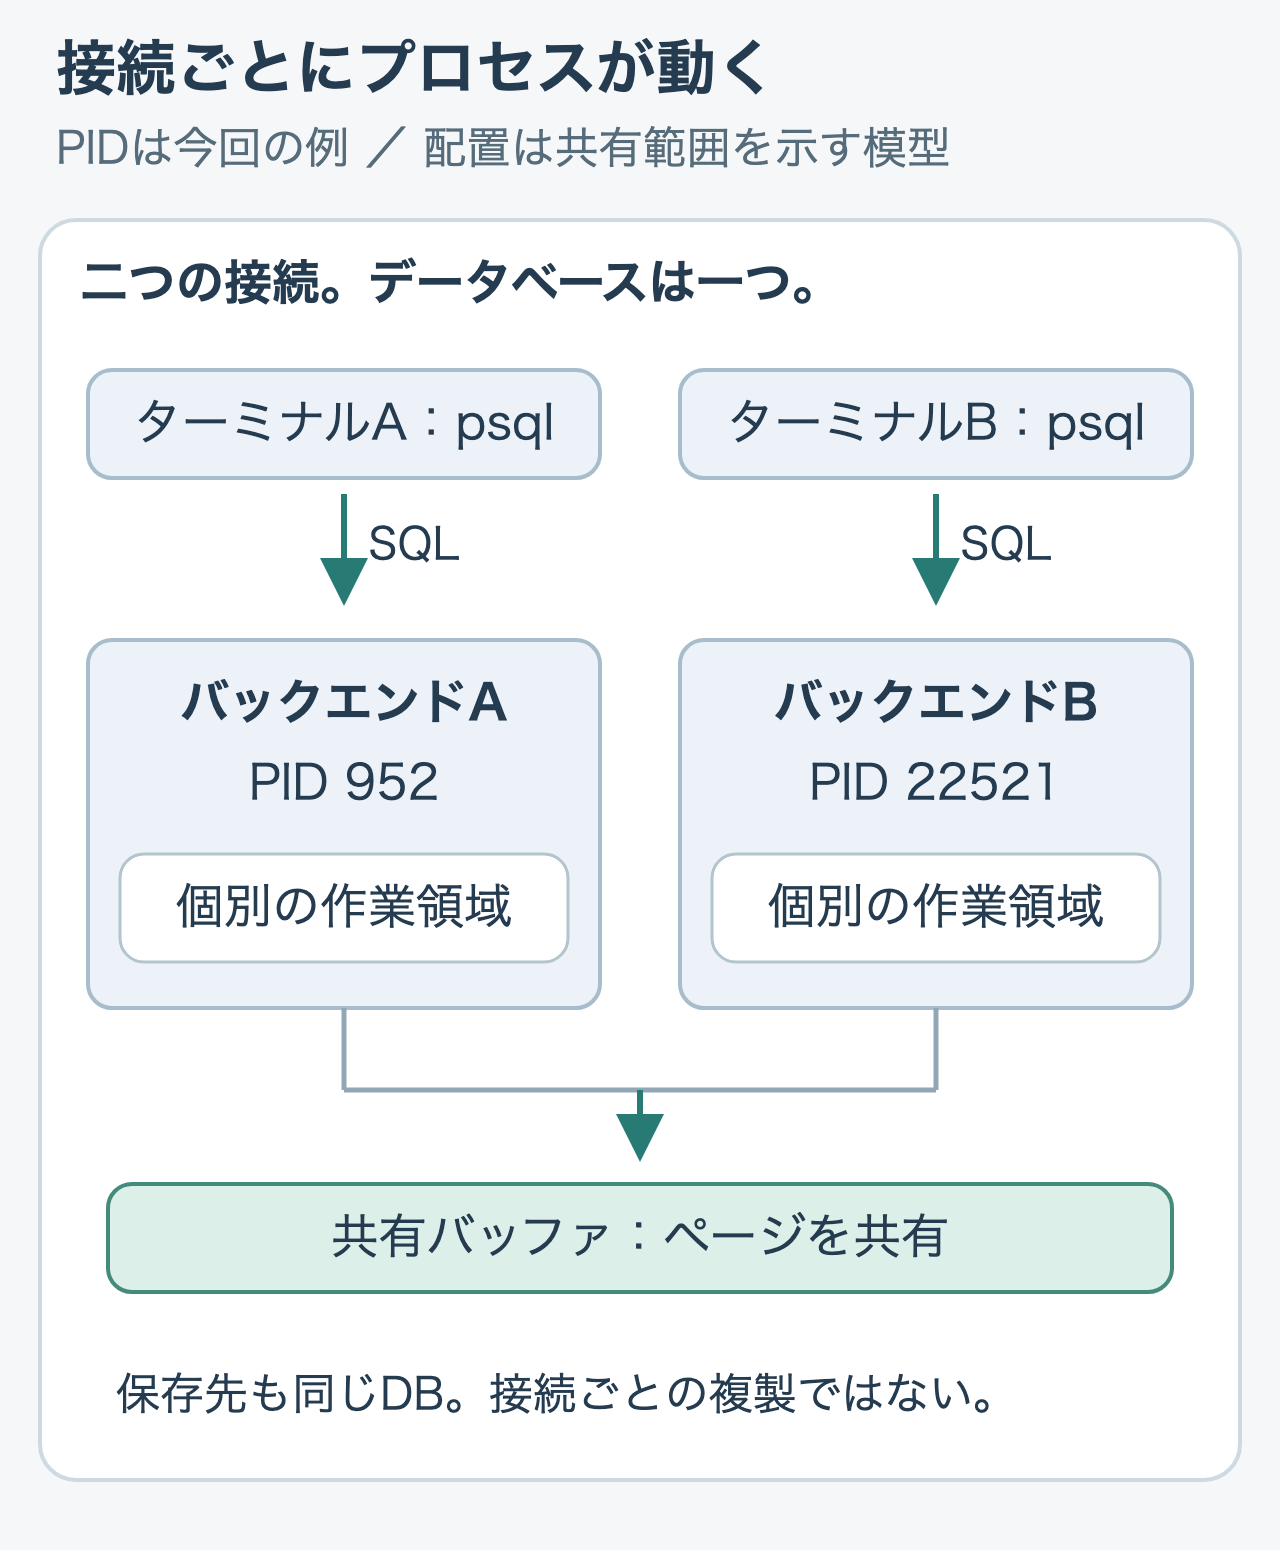
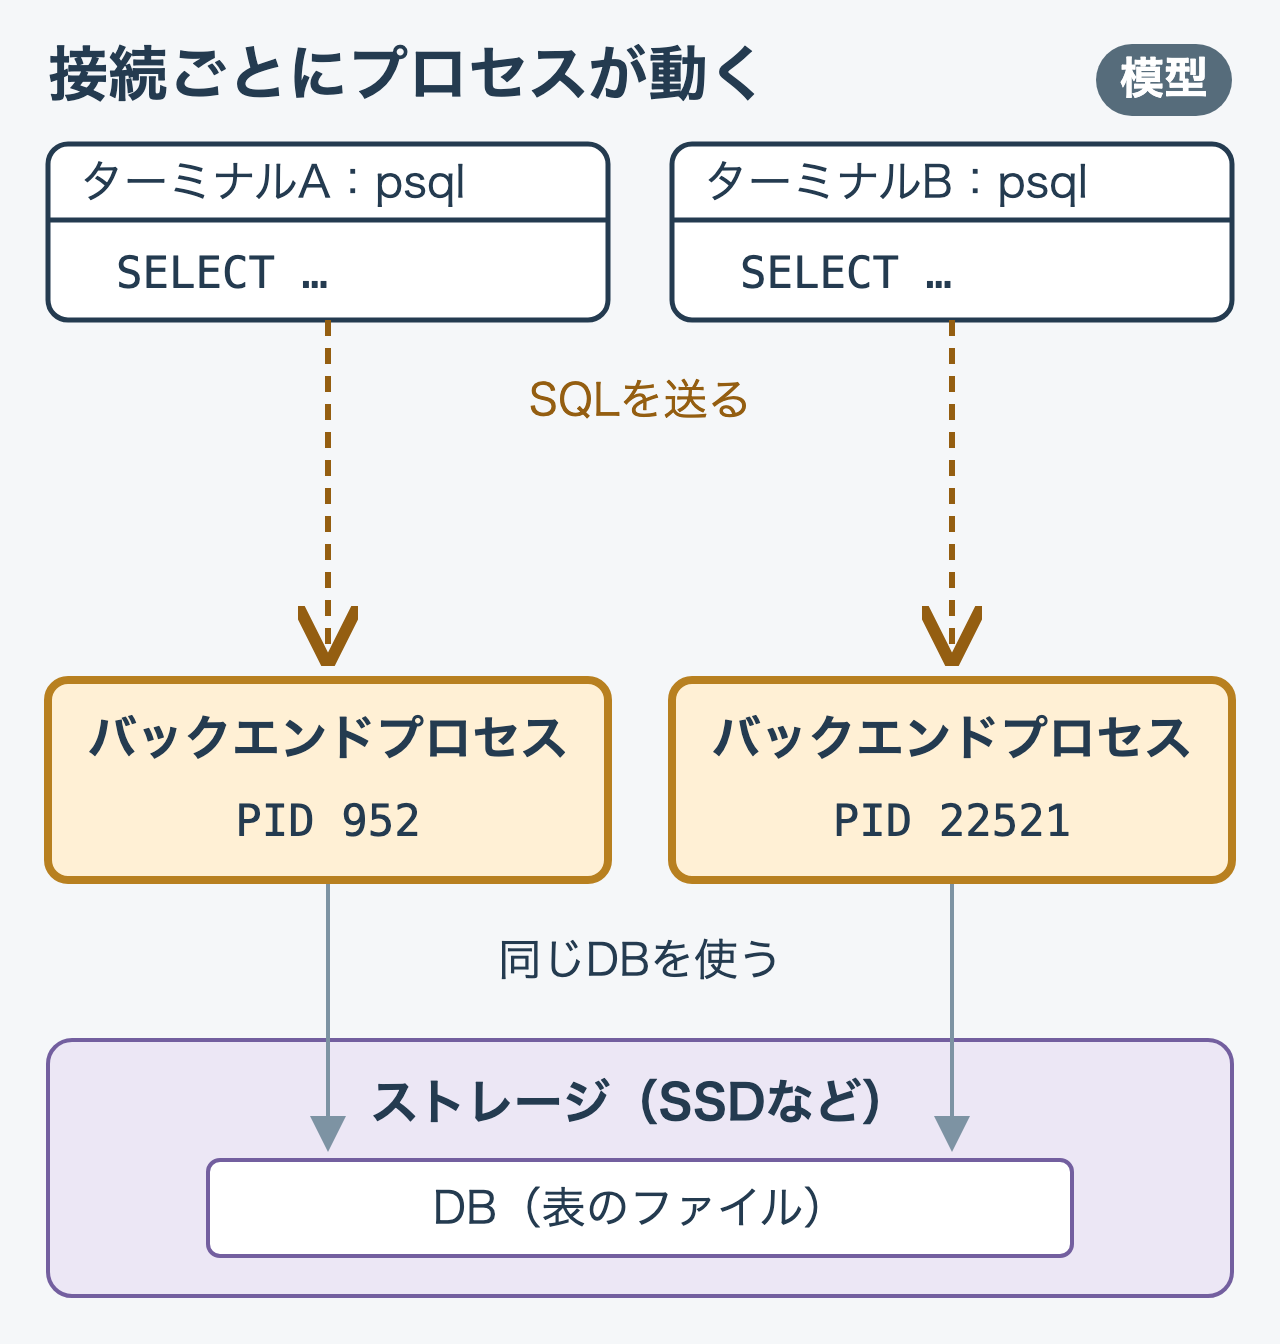
docs(query-journey): 第6章の接続の図を、二つのpsqlと二つのバックエンドプロセスと同じDBで描き直す
副題と文が画像の中にあり、旧来の部品で描いていた。入口の絵と同じ位置の二つのターミナルから、PID 952・22521 の二つのバックエンドプロセスへつなぎ、同じDBを使う形にした。作業領域と共有バッファは、156行目の節で扱うので描いていない。

diff --git a/books/postgresql-query-journey/06-process-and-execution.md b/books/postgresql-query-journey/06-process-and-execution.md
@@ -63,8 +63,8 @@ SELECT pg_backend_pid();
 
 通常の接続では、接続ごとにSQLを処理するプロセスが作られます。これを**バックエンドプロセス**と呼びます。
 
-![接続ごとにプロセスが動く](/images/postgresql-query-journey/02-connections.png)
-*PIDは今回の例。配置は共有範囲を示す模型です。*
+![二つのターミナルのpsqlが、それぞれ別のバックエンドプロセス（PID 952と22521）につながり、二つとも同じDBを使う](/images/postgresql-query-journey/02-connections.png)
+*接続ごとに別のバックエンドプロセスが動き、DBは一つのままです（PIDは今回の実行例。配置は模型）。*
 
 二つのバックエンドプロセスが、同じDBに接続しています。接続を増やしても、DBの複製は作られません。[公式のアーキテクチャ解説](https://www.postgresql.org/docs/18/tutorial-arch.html)でも、この接続とプロセスの関係が説明されています。
 
